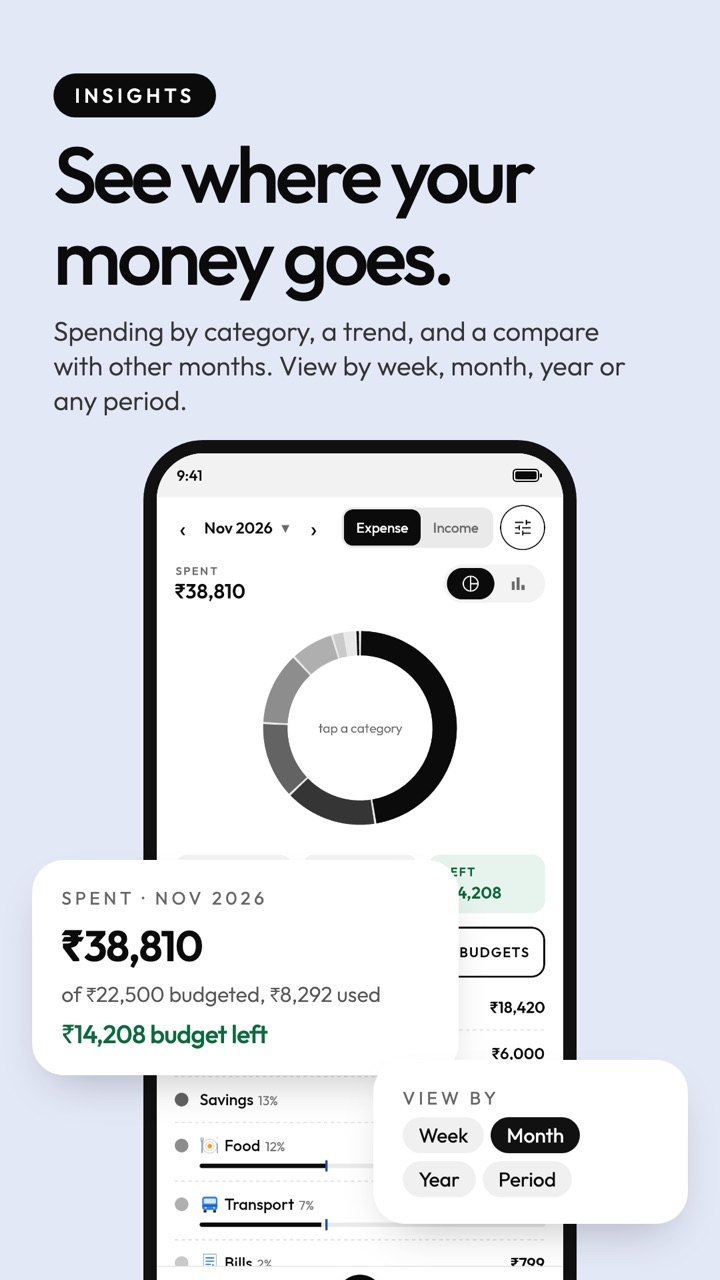
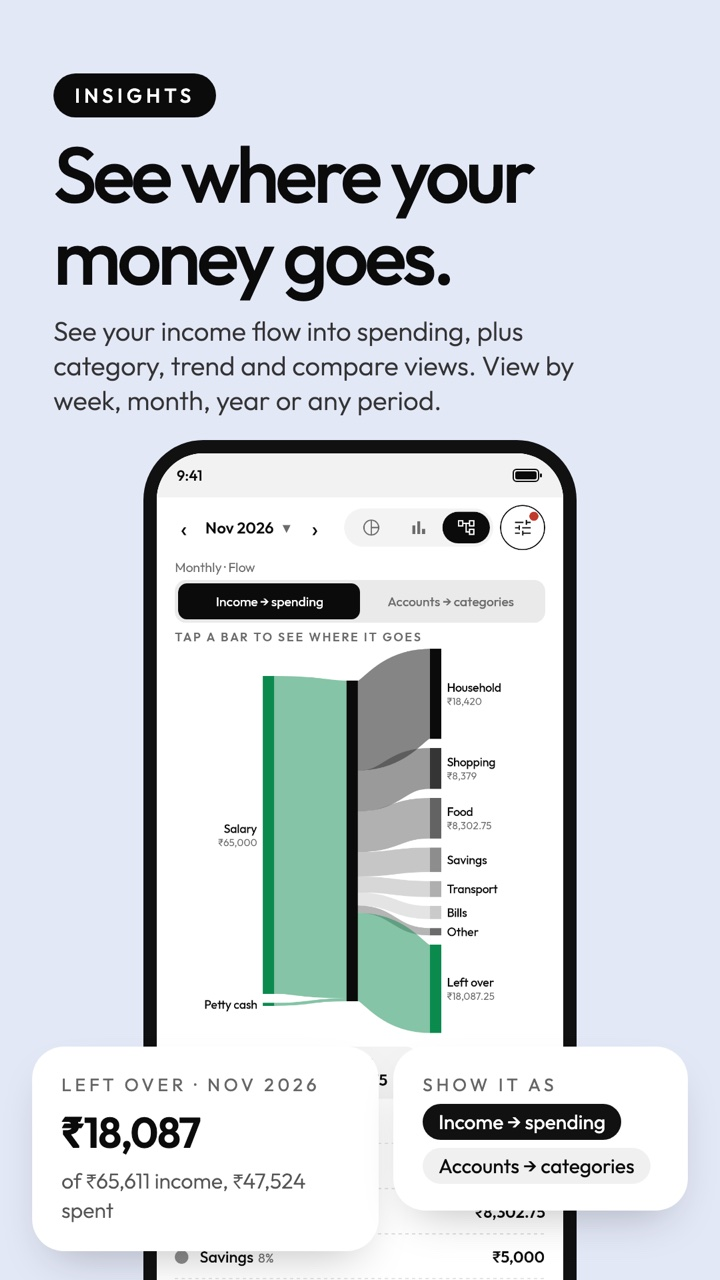
Insights: flow chart is the main Insights picture (feature image, hero screen, captions, Premium list)

Changed region(s): [[0.0306, 0.375, 0.9472, 1.0], [0.0611, 0.25, 0.8556, 0.3438], [0.4889, 0.9688, 0.5194, 1.0]]

diff --git a/index.html b/index.html
@@ -38,7 +38,7 @@
 {"@type":"Question","name":"Do I need an account?","acceptedAnswer":{"@type":"Answer","text":"No. Install it and start adding. Google sign-in is only used if you turn on Drive backup."}},
 {"@type":"Question","name":"How do I move from another app?","acceptedAnswer":{"@type":"Answer","text":"Export your old records to an Excel file and import them into the app."}},
 {"@type":"Question","name":"How do I open the computer view?","acceptedAnswer":{"@type":"Answer","text":"Start it in the app, open the address it shows in a browser on the same Wi-Fi, then scan the QR code on the page with the app or type the 6-digit code."}},
-{"@type":"Question","name":"What does Premium add?","acceptedAnswer":{"@type":"Answer","text":"No ads, unlimited accounts and budgets, Add several, Drive backup, the computer view, older months of Assets and liabilities, PDF statements and the Blue, Green and Purple styles."}},
+{"@type":"Question","name":"What does Premium add?","acceptedAnswer":{"@type":"Answer","text":"No ads, unlimited accounts and budgets, Add several, Drive backup, the computer view, older months of Assets and liabilities, PDF statements, the flow chart and the Blue, Green and Purple styles."}},
 {"@type":"Question","name":"Can the app remind me about bills and EMIs?","acceptedAnswer":{"@type":"Answer","text":"Yes. The bell on the Trans tab lists card bills, loan EMIs, repeats and budgets that need a look, and checks whether your accounts can cover the payments coming in the next few days, counted in real days. An account that cannot cover a payment due soon gets a red short-on chip on the Accounts tab. The same bell and Reminders page are on the computer view. In Reminders by account you switch on the reminders you want for each account; they all start off. Mark paid only records a transfer: the app never moves money or opens your bank app."}},
 {"@type":"Question","name":"Can I see how my assets and liabilities changed month by month?","acceptedAnswer":{"@type":"Answer","text":"Yes. Tap the Assets, Liabilities or Total card on the Accounts tab. Each month is a bar for how much it changed: above the line it went up, below it went down, green when that is good for you and red when it is not. Pick a month to see what moved it by account or by type (income, expenses, transfers, card bills and EMIs), and its four weeks. The computer page has the same page. The last six months are free; older months are part of Premium."}},
 {"@type":"Question","name":"Can the app add transactions from bank SMS?","acceptedAnswer":{"@type":"Answer","text":"Yes. SMS tracking is a core feature of the app and starts only after you agree. The app explains what it does first, and Android asks for SMS permission only after you tap Agree. Alerts from banks, cards and wallets are read on your phone and added as entries, or wait in To review. The message text is not kept. You can turn it off any time. If you also switch on Payment app notifications, the app can read payment notifications of the apps you select, such as bank and UPI apps, on your phone in the same way. That needs Notification access, stays off until you turn it on, and the notification text is not kept."}},
@@ -337,7 +337,7 @@ footer .data{max-width:1240px;margin:0 auto 18px;font-size:13px;line-height:1.6;
 </div>
 <div class="hero-r" id="heroR">
 <div class="tilt" id="tilt">
-<div class="back"><div class="phone"><img src="screens/02-insights.webp" width="234" height="506" alt="Insights screen of the app: spending by category for the month" decoding="async"></div></div>
+<div class="back"><div class="phone"><img src="screens/02-insights.jpg" width="234" height="506" alt="Insights screen of the app: a flow chart of income into spending for the month" decoding="async"></div></div>
 <div class="front"><div class="phone"><img src="screens/01-transactions-daily.webp" width="265" height="574" alt="Transactions screen of the app, Daily view, with the month's totals" fetchpriority="high"></div></div>
 <div class="fcard float salary"><span class="av">S</span><span class="tx"><small>Salary</small><b id="sal">+ ₹62,400.00</b></span></div>
 <div class="fcard float-b backed"><svg width="15" height="15" viewBox="0 0 24 24" fill="none" stroke="currentColor" stroke-width="2" aria-hidden="true"><path d="M5 12l5 5 9-10"/></svg>Backed up to your Drive</div>
@@ -362,7 +362,7 @@ footer .data{max-width:1240px;margin:0 auto 18px;font-size:13px;line-height:1.6;
 <div class="gal-wrap">
 <ul class="gal" id="gal" tabindex="0" aria-label="Feature pictures">
 <li><img src="features/01-daily-transactions.jpg" width="300" height="533" alt="Daily transactions: Every entry by day, with the month's income, expense and total on top." loading="lazy" decoding="async"><h3>Daily transactions</h3><p>Every entry by day, with the month's income, expense and total on top.</p></li>
-<li><img src="features/02-insights.jpg" width="300" height="533" alt="Insights: Spending by category or month bars, a trend and a compare with other months. View by week, month, year or any period." loading="lazy" decoding="async"><h3>Insights</h3><p>Spending by category or month bars, a trend and a compare with other months. View by week, month, year or any period.</p></li>
+<li><img src="features/02-insights.jpg" width="300" height="533" alt="Insights: a flow chart of your income into spending, plus category, month bars, trend and compare views. View by week, month, year or any period." loading="lazy" decoding="async"><h3>Insights</h3><p>See your income flow into spending, or which account paid for what (the flow chart is Premium), plus category, month bars, trend and compare views. View by week, month, year or any period.</p></li>
 <li><img src="features/03-smart-notes.jpg" width="300" height="533" alt="Notes that fill themselves: Start typing a note and pick a past entry - category and account fill in for you." loading="lazy" decoding="async"><h3>Notes that fill themselves</h3><p>Start typing a note and pick a past entry - category and account fill in for you.</p></li>
 <li><img src="features/04-add-several.jpg" width="300" height="533" alt="Add several: One account, many rows: enter a whole bill or a trip in one go." loading="lazy" decoding="async"><h3>Add several</h3><p>One account, many rows: enter a whole bill or a trip in one go.</p></li>
 <li><img src="features/04b-grouped-entries.jpg" width="300" height="533" alt="Grouped entries: Entries saved together stay linked: tap to see the others and open one." loading="lazy" decoding="async"><h3>Grouped entries</h3><p>Entries saved together stay linked: tap to see the others and open one.</p></li>
@@ -458,7 +458,7 @@ footer .data{max-width:1240px;margin:0 auto 18px;font-size:13px;line-height:1.6;
 <li><img src="screens/pc-transactions.webp" width="560" height="315" alt="The computer page, Transactions: entries by day with the month's income, expense and total, upcoming payments and notes." loading="lazy" decoding="async"><h3>Transactions</h3><p>Every entry by day, with income, expense and total on top, upcoming payments and your notes beside it.</p></li>
 <li><img src="screens/pc-accounts.webp" width="560" height="315" alt="The computer page, Accounts: groups with balances and card limits, and the chosen account's page beside the list." loading="lazy" decoding="async"><h3>Accounts</h3><p>All your accounts in groups with balances and card limits, and the chosen account's page beside the list.</p></li>
 <li><img src="screens/pc-account.webp" width="560" height="315" alt="The computer page, one account: balance card, upcoming payments and entries by day, with Repeat and installments." loading="lazy" decoding="async"><h3>Account page</h3><p>Daily, Monthly, Yearly and Details for one account, with upcoming payments and a Repeat and installments button.</p></li>
-<li><img src="screens/pc-insights.webp" width="560" height="315" alt="The computer page, Insights: spending by category as a ring and a list, with budgets." loading="lazy" decoding="async"><h3>Insights</h3><p>Spending by category against your budgets, with tags, month bars and a trend.</p></li>
+<li><img src="screens/pc-insights.webp" width="560" height="315" alt="The computer page, Insights: spending by category as a ring and a list, with budgets." loading="lazy" decoding="async"><h3>Insights</h3><p>Spending by category against your budgets, with tags, month bars, a trend and a flow chart.</p></li>
 <li><img src="screens/pc-reminders.webp" width="560" height="315" alt="The computer page with the Reminders bell open: Reminders and Payments, with View, Snooze and Dismiss." loading="lazy" decoding="async"><h3>Reminders</h3><p>The same bell as on your phone: card bills, EMIs and low balance, with View, Snooze and Dismiss.</p></li>
 <li><img src="screens/pc-add-several.webp" width="560" height="315" alt="The computer page, Add several: rows for amount, category and note, with a Save entries button." loading="lazy" decoding="async"><h3>Add several</h3><p>Type many entries in one go on a big screen, then save them together.</p></li>
 <li><img src="screens/pc-search.webp" width="560" height="315" alt="The computer page, Search: results for a word across months, with the number found and totals." loading="lazy" decoding="async"><h3>Search</h3><p>Search notes and descriptions across every month, with the total found.</p></li>
@@ -480,7 +480,7 @@ footer .data{max-width:1240px;margin:0 auto 18px;font-size:13px;line-height:1.6;
 <div class="q"><button type="button" aria-expanded="true" aria-controls="a0" id="q0"><span>Do I need an account?</span><span class="plus" aria-hidden="true">+</span></button><div class="a" id="a0" role="region" aria-labelledby="q0">No. Install it and start adding. Google sign-in is only used if you turn on Drive backup.</div></div>
 <div class="q"><button type="button" aria-expanded="false" aria-controls="a1" id="q1"><span>How do I move from another app?</span><span class="plus" aria-hidden="true">+</span></button><div class="a" id="a1" role="region" aria-labelledby="q1" hidden>Export your old records to an Excel file and import them into the app.</div></div>
 <div class="q"><button type="button" aria-expanded="false" aria-controls="a2" id="q2"><span>How do I open the computer view?</span><span class="plus" aria-hidden="true">+</span></button><div class="a" id="a2" role="region" aria-labelledby="q2" hidden>Start it in the app, open the address it shows in a browser on the same Wi-Fi, then scan the QR code on the page with the app or type the 6-digit code.</div></div>
-<div class="q"><button type="button" aria-expanded="false" aria-controls="a3" id="q3"><span>What does Premium add?</span><span class="plus" aria-hidden="true">+</span></button><div class="a" id="a3" role="region" aria-labelledby="q3" hidden>No ads, unlimited accounts and budgets, Add several, Drive backup, the computer view, older months of Assets and liabilities, PDF statements and the Blue, Green and Purple styles.</div></div>
+<div class="q"><button type="button" aria-expanded="false" aria-controls="a3" id="q3"><span>What does Premium add?</span><span class="plus" aria-hidden="true">+</span></button><div class="a" id="a3" role="region" aria-labelledby="q3" hidden>No ads, unlimited accounts and budgets, Add several, Drive backup, the computer view, older months of Assets and liabilities, PDF statements, the flow chart and the Blue, Green and Purple styles.</div></div>
 <div class="q"><button type="button" aria-expanded="false" aria-controls="a4" id="q4"><span>Can the app remind me about bills and EMIs?</span><span class="plus" aria-hidden="true">+</span></button><div class="a" id="a4" role="region" aria-labelledby="q4" hidden>Yes. The bell on the Trans tab lists card bills, loan EMIs, repeats and budgets that need a look, and checks whether your accounts can cover the payments coming in the next few days, counted in real days. An account that cannot cover a payment due soon gets a red short-on chip on the Accounts tab. The same bell and Reminders page are on the computer view. In Reminders by account you switch on the reminders you want for each account; they all start off. Mark paid only records a transfer: the app never moves money or opens your bank app.</div></div>
 <div class="q"><button type="button" aria-expanded="false" aria-controls="a5" id="q5"><span>Can I see how my assets and liabilities changed month by month?</span><span class="plus" aria-hidden="true">+</span></button><div class="a" id="a5" role="region" aria-labelledby="q5" hidden>Yes. Tap the Assets, Liabilities or Total card on the Accounts tab. Each month is a bar for how much it changed: above the line it went up, below it went down, green when that is good for you and red when it is not. Pick a month to see what moved it by account or by type (income, expenses, transfers, card bills and EMIs), and its four weeks. The computer page has the same page. The last six months are free; older months are part of Premium.</div></div>
 <div class="q"><button type="button" aria-expanded="false" aria-controls="a6" id="q6"><span>Can the app add transactions from bank SMS?</span><span class="plus" aria-hidden="true">+</span></button><div class="a" id="a6" role="region" aria-labelledby="q6" hidden>Yes. SMS tracking is a core feature of the app and starts only after you agree. The app explains what it does first, and Android asks for SMS permission only after you tap Agree. Alerts from banks, cards and wallets are read on your phone and added as entries, or wait in To review. The message text is not kept. You can turn it off any time. If you also switch on Payment app notifications, the app can read payment notifications of the apps you select, such as bank and UPI apps, on your phone in the same way. That needs Notification access, stays off until you turn it on, and the notification text is not kept.</div></div>
